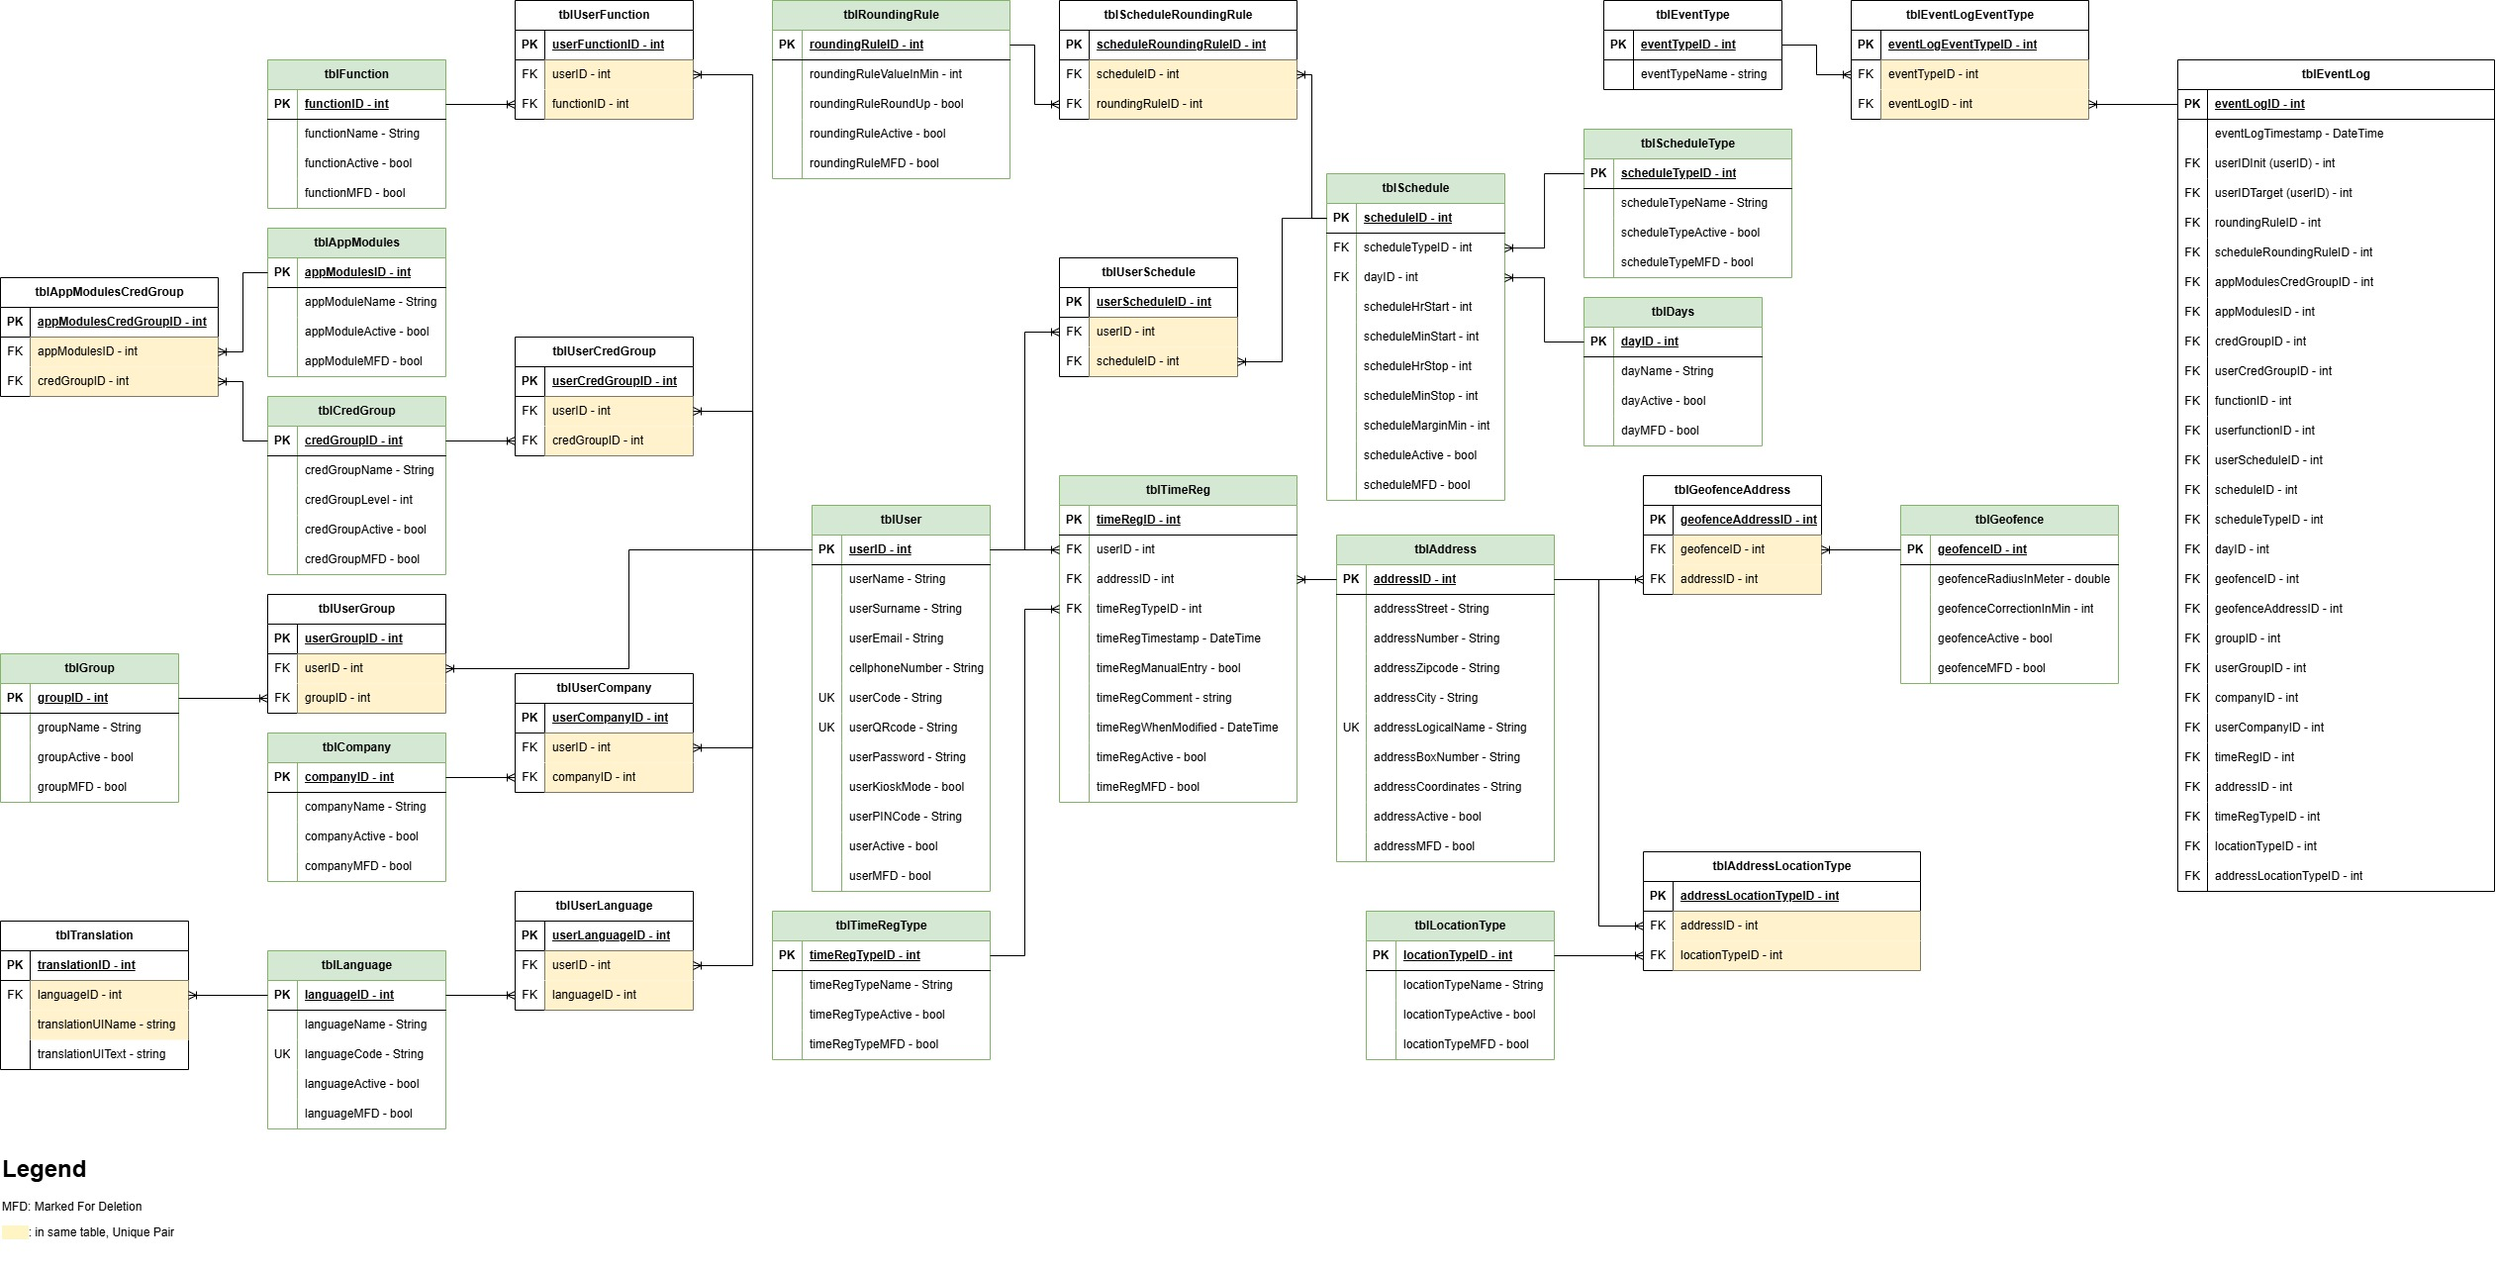
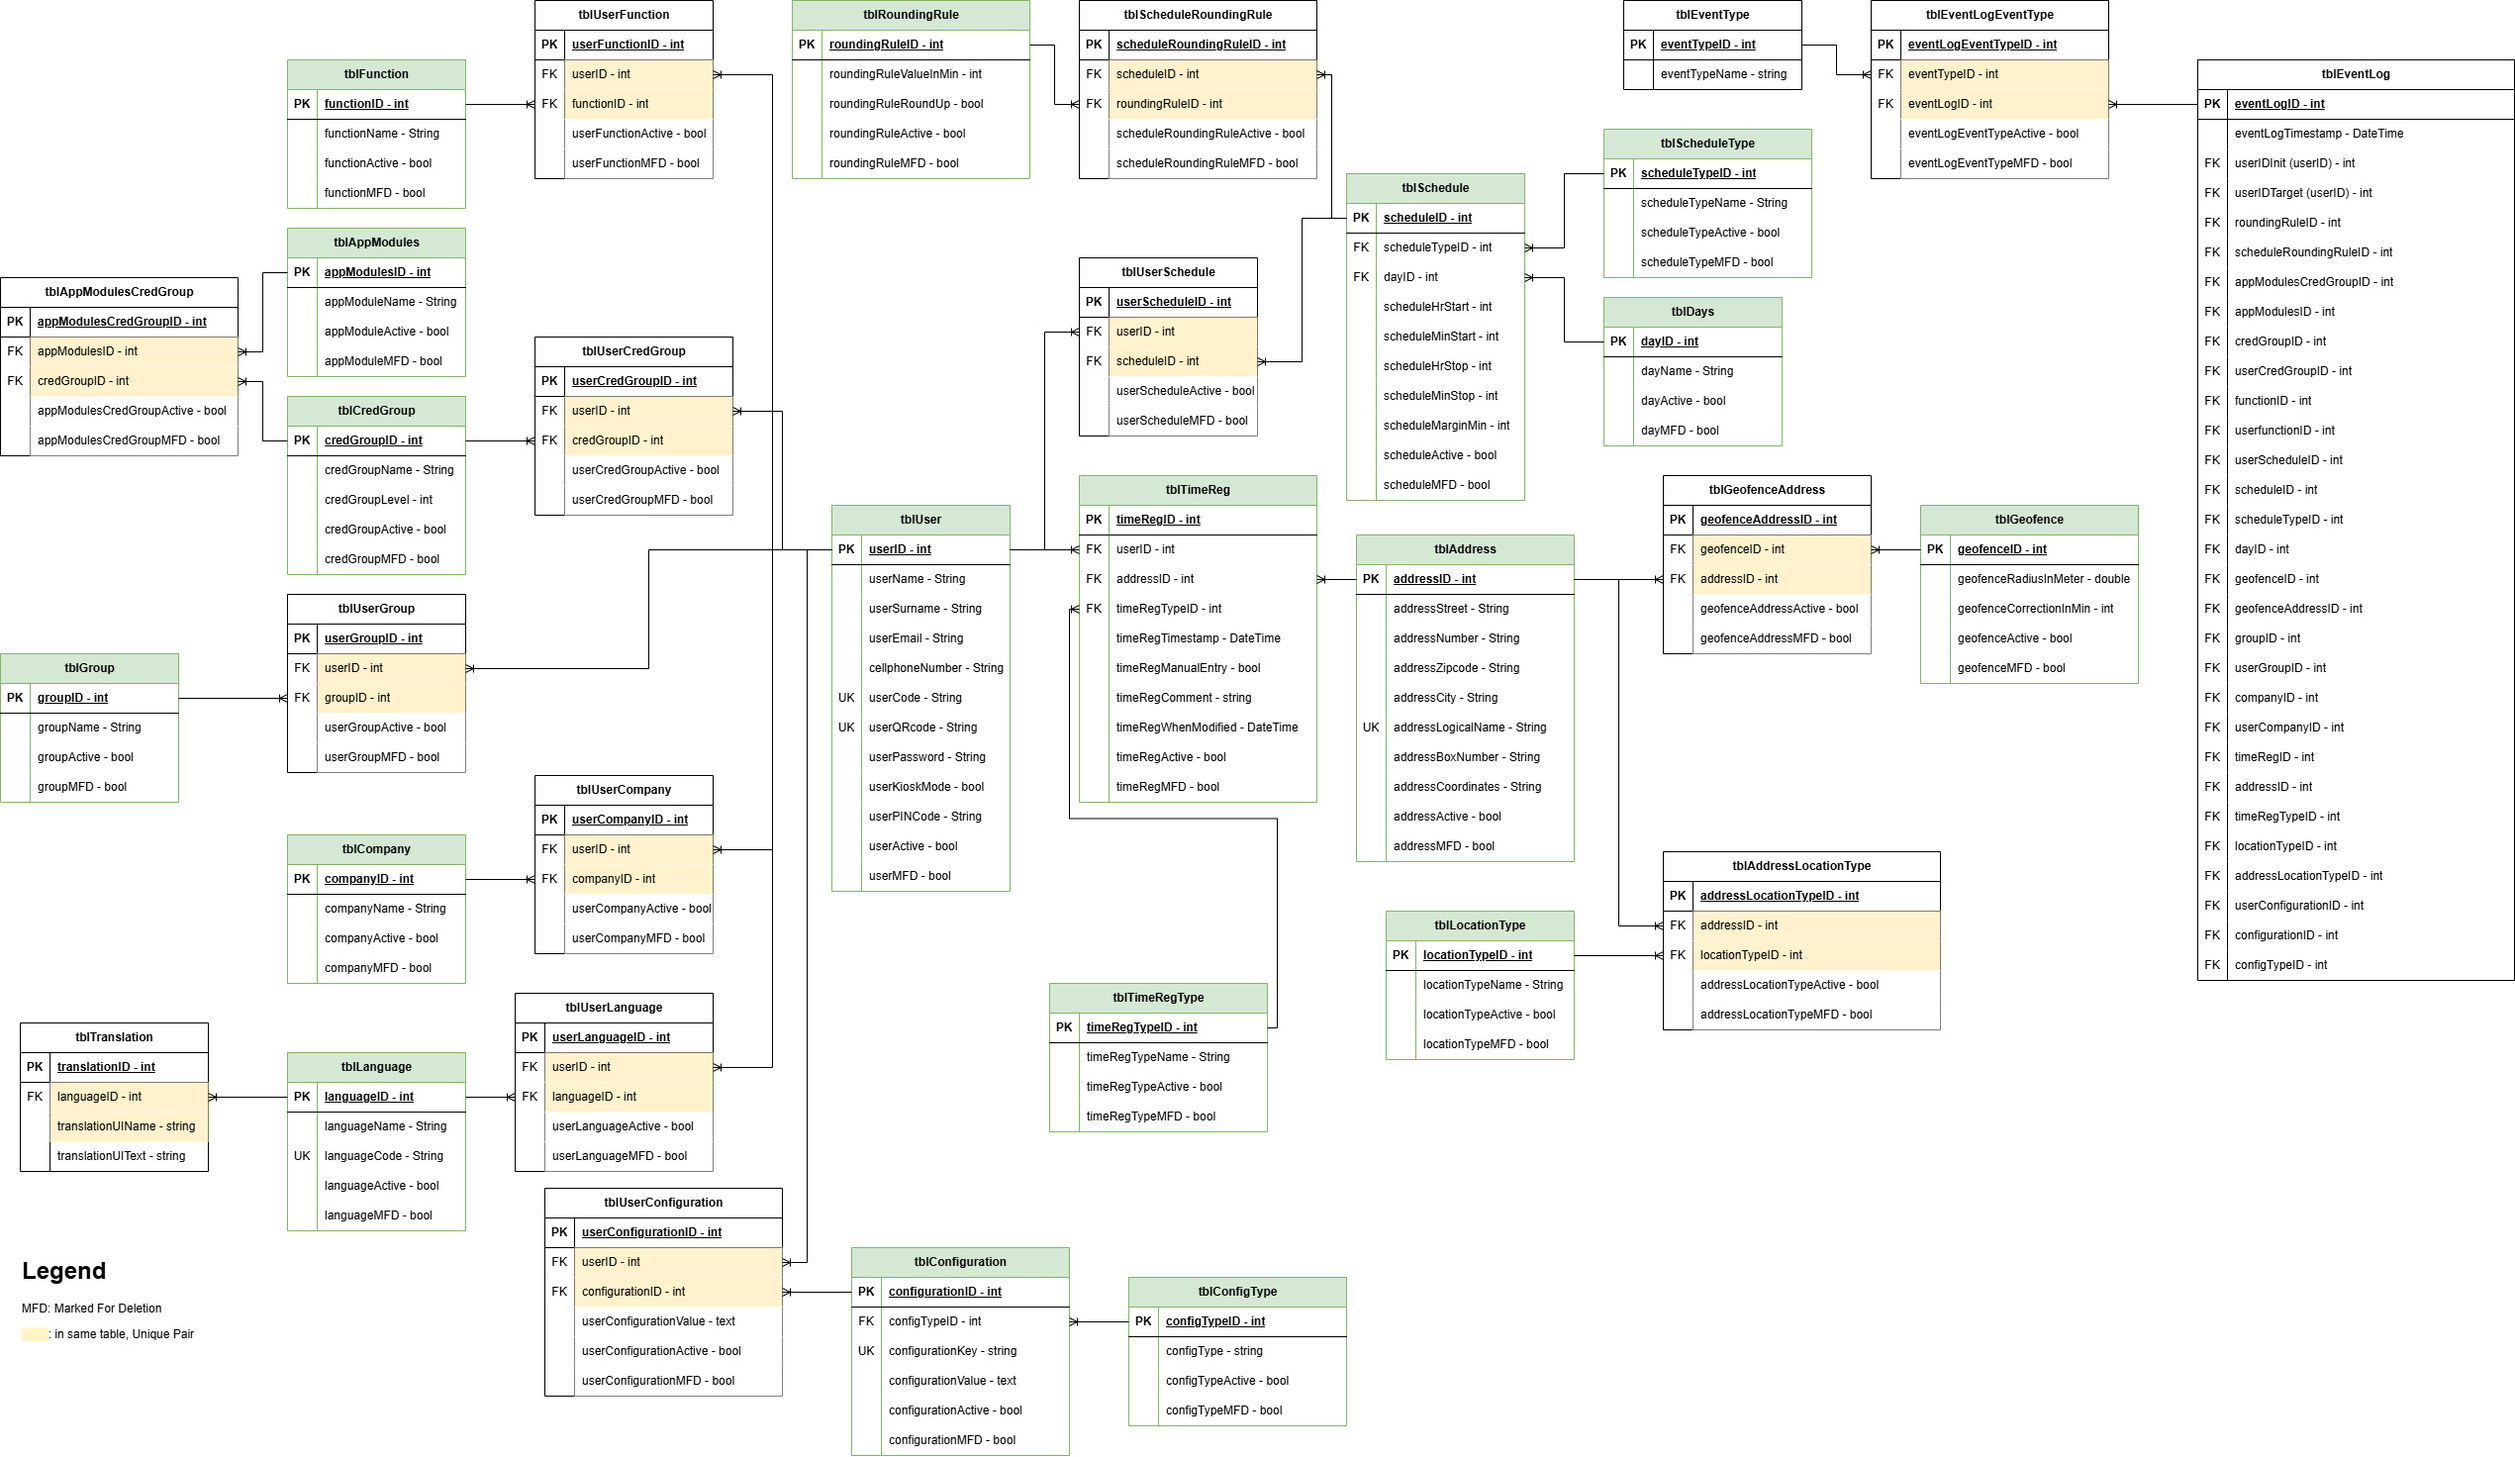
docs(erd): new ERD.jpg with configuration tables (not yet in IT's database)

diff --git a/docs/database/ERD.md b/docs/database/ERD.md
@@ -2,15 +2,19 @@
 
 ![Jitan ERD](ERD.jpg)
 
-Authoritative structural reference: [ERD.jpg](ERD.jpg) (ERD version *2026-09-24 – ERD-organized*).
+Authoritative structural reference: [ERD.jpg](ERD.jpg) (version received 2026-10-12: adds the
+configuration tables and draws Active/MFD on every junction table).
 This document explains what each table **means in Jitan**. If this document and the image
 ever disagree, the image wins. Fix this document.
 
 Physical schema (types, lengths, NULL/NOT NULL, defaults, constraint names): IT's
 development database, inspected on 2026-10-09 and mirrored in
 [dev/local-db/schema.sql](../../dev/local-db/schema.sql). It has the same tables, columns and
-keys as the image, plus the Active/MFD columns on every junction table that IT approved on
-2026-10-08 (not drawn in `ERD.jpg`). Every boolean is `TINYINT(1) NOT NULL`, with
+keys as the image, including the Active/MFD columns on every junction table, **except the
+configuration tables** (`tblConfigType`, `tblConfiguration`, `tblUserConfiguration` and the
+three `tblEventLog` FKs to them), which the 2026-10-12 diagram adds and IT's database did
+not have on 2026-10-09. Jitan does not use them until they exist in IT's database
+(DB-VERIFY-01). Every boolean is `TINYINT(1) NOT NULL`, with
 `Active` defaulting to 1 and `MFD` to 0; Jitan still writes both explicitly.
 
 Open questions where Jitan requirements don't fit the ERD: [ERD_GAPS.md](ERD_GAPS.md).
@@ -627,6 +631,56 @@ configuration (e.g. "50 m, standard correction") can be reused across many addre
 
 ---
 
+# Configuration
+
+Added in the 2026-10-12 diagram. **Not yet in IT's development database** (checked
+2026-10-09): no code reads or writes these tables until IT has created them and the
+schema export confirms their columns.
+
+A generic key/value store: system-wide settings in `tblConfiguration`, grouped by
+`tblConfigType`, and per-user values in `tblUserConfiguration`. What each key means is a
+product/development decision recorded in [ERD_GAPS.md](ERD_GAPS.md) or the feature's
+analysis before it is used; keys are read from the database, never invented in code paths
+that assume a row exists.
+
+## `tblConfigType`
+
+| Column | Type | Key | Jitan meaning |
+|---|---|---|---|
+| `configTypeID` | int | PK | |
+| `configType` | String | | Category of settings (e.g. time registration, geofencing) |
+| `configTypeActive` | bool | | |
+| `configTypeMFD` | bool | | |
+
+## `tblConfiguration`
+
+| Column | Type | Key | Jitan meaning |
+|---|---|---|---|
+| `configurationID` | int | PK | |
+| `configTypeID` | int | FK → `tblConfigType` | |
+| `configurationKey` | String | UK | The setting's unique key |
+| `configurationValue` | text | | The system-wide value (default) |
+| `configurationActive` | bool | | |
+| `configurationMFD` | bool | | |
+
+## `tblUserConfiguration`
+
+User ↔ configuration. Unique pair: `userID + configurationID`.
+
+| Column | Type | Key |
+|---|---|---|
+| `userConfigurationID` | int | PK |
+| `userID` | int | FK → `tblUser` |
+| `configurationID` | int | FK → `tblConfiguration` |
+| `userConfigurationValue` | text | |
+| `userConfigurationActive` | bool | |
+| `userConfigurationMFD` | bool | |
+
+A user's own value for a setting, overriding `configurationValue`. Like every junction
+table, a row counts only while `Active = true AND MFD = false`.
+
+---
+
 # Event logging and auditing
 
 ## `tblEventType`
@@ -686,6 +740,9 @@ that entity is involved.
 | `timeRegTypeID` | int | `tblTimeRegType` |
 | `locationTypeID` | int | `tblLocationType` |
 | `addressLocationTypeID` | int | `tblAddressLocationType` |
+| `userConfigurationID` | int | `tblUserConfiguration` (2026-10-12 diagram; not yet in IT's database) |
+| `configurationID` | int | `tblConfiguration` (idem) |
+| `configTypeID` | int | `tblConfigType` (idem) |
 
 Log every consequential action here, never in a separate logging table:
 

diff --git a/docs/BACKLOG.md b/docs/BACKLOG.md
@@ -120,6 +120,10 @@ Status: `IN PROGRESS` · access to IT's development database verified 2026-10-09
       mirrors IT's schema, and every integration test passes against it.
 - [ ] Verify the server's TLS certificate before the API or any test connects to IT's
       database (SEC-01)
+- [ ] The 2026-10-12 `ERD.jpg` adds `tblConfigType`, `tblConfiguration`,
+      `tblUserConfiguration` and three `tblEventLog` FKs that IT's database did not have
+      on 2026-10-09: ask IT when they are created, then export again and regenerate
+      `dev/local-db/schema.sql`
 - [ ] Run the read-only `schema_contract_test` against IT's database. The other integration
       tests insert and delete `[DEV-TEST]` fixtures: they run only on the local database
       unless IT agrees otherwise
